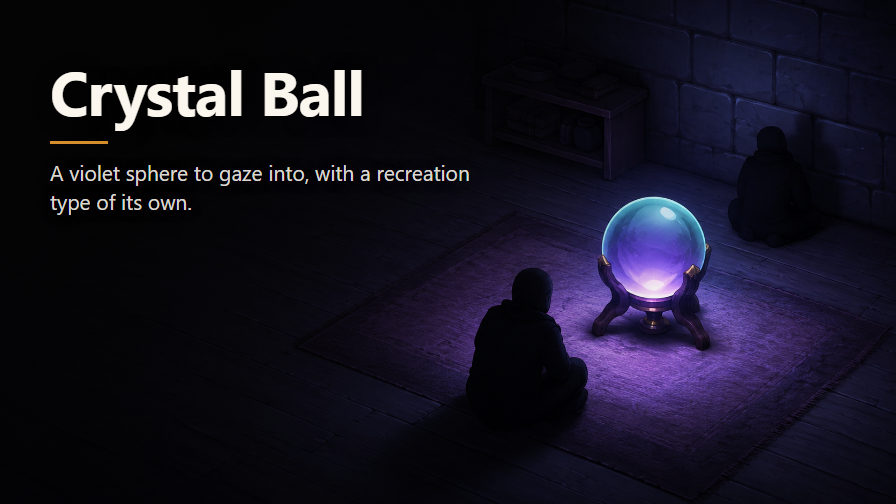
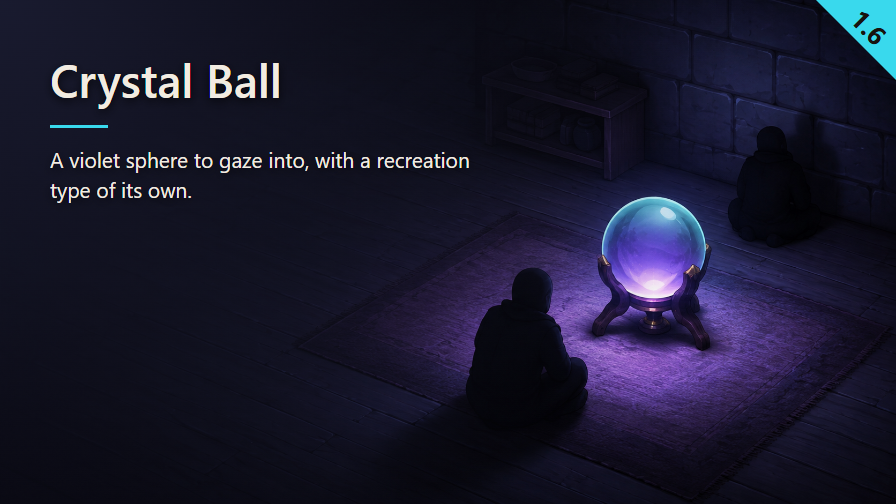
Refresh Crystal Ball preview and document repository validation

Changed region(s): [[0.0, 0.0, 0.5312, 0.6845], [0.9062, 0.0, 1.0, 0.1488]]

diff --git a/Art/Preview.html b/Art/Preview.html
@@ -1,0 +1,33 @@
+<!doctype html>
+<html><head><meta charset="utf-8"><title>Crystal Ball — Preview composition</title>
+<style>
+*{box-sizing:border-box;margin:0;padding:0}
+html,body{width:896px;height:504px;overflow:hidden;font-family:"Segoe UI",system-ui,sans-serif}
+.scene,.veil{position:absolute;inset:0}
+.scene{background:url('Preview.png') center/cover no-repeat}
+.veil{background:radial-gradient(circle at 0% 0%,rgb(var(--veil-rgb)/.86) 0%,rgb(var(--veil-rgb)/0) 74%)}
+.plate{position:absolute;left:50px;top:54px;color:var(--inkPrimary);text-shadow:0 3px 10px rgba(0,0,0,.75)}
+h1{font-size:46px;font-weight:600;line-height:1.1;letter-spacing:0}
+.tag{font-size:24px;font-weight:400;line-height:1.1;letter-spacing:.2px;margin-top:8px;color:var(--inkSecondary)}
+.rule{width:58px;height:3px;background:var(--accent);margin-top:20px;margin-bottom:16px}
+.summary{width:430px;font-size:21px;font-weight:400;line-height:1.45;letter-spacing:0}
+.badge{position:absolute;right:0;top:0;width:80px;height:80px;background:var(--accent);clip-path:polygon(0 0,100% 0,100% 100%)}
+.version{position:absolute;left:869px;top:27px;transform:translate(-50%,-50%) rotate(45deg);font-size:26px;font-weight:700;line-height:1;color:var(--badgeInk)}
+</style></head><body>
+<div class="scene"></div><div class="veil"></div>
+<div class="plate"><h1>Crystal Ball</h1><div class="rule"></div><p class="summary">A violet sphere to gaze into, with a recreation type of its own.</p></div>
+<div class="badge"></div><span class="version"></span>
+<script>
+window.ready=(async()=>{
+ const palette=await (await fetch('preview-palette.json')).json();
+ for(const [key,value] of Object.entries(palette))document.documentElement.style.setProperty('--'+key,value);
+ document.documentElement.style.setProperty('--veil-rgb',palette.veil.match(/[a-f\d]{2}/gi).map(v=>parseInt(v,16)).join(' '));
+ const xml=new DOMParser().parseFromString(await(await fetch('../Mod/About/About.xml')).text(),'text/xml');
+ const versions=[...xml.querySelectorAll('supportedVersions li')].map(n=>n.textContent.trim()).filter(v=>/^\d+\.\d+(\.\d+)?$/.test(v));
+ versions.sort((a,b)=>{const aa=a.split('.').map(Number),bb=b.split('.').map(Number);for(let i=0;i<Math.max(aa.length,bb.length);i++){if((aa[i]||0)!==(bb[i]||0))return (aa[i]||0)-(bb[i]||0)}return 0});
+ if(!versions.length)throw Error('No stable supported version');
+ document.querySelector('.version').textContent=versions.at(-1);
+ await document.fonts.ready;
+ await new Promise((resolve,reject)=>{const img=new Image();img.onload=resolve;img.onerror=reject;img.src='Preview.png'});
+})();
+</script></body></html>

diff --git a/_tools/preview/Preview.html b/_tools/preview/Preview.html
@@ -1,66 +1,5 @@
 <!doctype html>
 <meta charset="utf-8">
-<title>Crystal Ball — showcase</title>
-<!--
-  Engraves the mod name and its summary line onto the showcase, to the repository
-  standard in STYLE_RIMWORLD.md: 896x504, title over the calm upper-left third,
-  58x3 amber rule, 21 px summary on 430 px.
-
-  Rendered by Chrome headless at the final size, so the glyphs are never
-  resampled. The background is Art/Preview-source.png, the full-resolution
-  render, never the reduced Preview.png.
-
-    chrome --headless --no-sandbox --disable-gpu --hide-scrollbars \
-      --window-size=896,504 --force-device-scale-factor=1 \
-      --screenshot=../../Mod/About/Preview.png Preview.html
-
-  Geometry measured off the first engraving so a re-render lands on the same
-  pixels: rule at (50,141), cap-top of the title at y=70, summary from y=165
-  with a 29 px leading.
--->
-<style>
-  html, body { margin: 0; padding: 0; }
-  body { width: 896px; height: 504px; position: relative; overflow: hidden; }
-
-  .scene {
-    position: absolute; inset: 0;
-    background: url('../../Art/Preview-source.png') center / cover no-repeat;
-  }
-
-  /* Darkens the upper-left third so the text reads, and leaves the ball alone. */
-  .veil {
-    position: absolute; inset: 0;
-    background: radial-gradient(circle at top left,
-                rgba(6, 5, 4, .86) 0%, rgba(6, 5, 4, 0) 74%);
-  }
-
-  .plate {
-    position: absolute; left: 50px; top: 60px;
-    font-family: "Segoe UI", system-ui, -apple-system, sans-serif;
-  }
-
-  .name {
-    margin: 0; font-size: 62px; font-weight: 700; line-height: 1;
-    color: #FBF7EF; letter-spacing: -1.1px;
-    text-shadow: 0 2px 18px rgba(0, 0, 0, .55);
-  }
-
-  .rule {
-    width: 58px; height: 3px; margin: 19px 0 0; background: #D68F2C;
-  }
-
-  .line {
-    margin: 14px 0 0; width: 430px;
-    font-size: 21px; line-height: 29px; font-weight: 400;
-    color: rgba(251, 247, 239, .88);
-    text-shadow: 0 1px 12px rgba(0, 0, 0, .6);
-  }
-</style>
-
-<div class="scene"></div>
-<div class="veil"></div>
-<div class="plate">
-  <p class="name">Crystal Ball</p>
-  <div class="rule"></div>
-  <p class="line">A violet sphere to gaze into, with a recreation type of its own.</p>
-</div>
+<title>Crystal Ball — Preview composition moved</title>
+<meta http-equiv="refresh" content="0;url=../../Art/Preview.html">
+<a href="../../Art/Preview.html">Composition maintained in Art/Preview.html (serve the repository over HTTP).</a>

diff --git a/STATUS.md b/STATUS.md
@@ -2,67 +2,113 @@
 mod:          Crystal Ball
 packageId:    nelim.crystalball
 repo:         Rimworld-Crystal-Ball
+remote:       https://github.com/vbardales/Rimworld-Crystal-Ball.git
+local_path:   C:\Users\nelim\Documents\rimworld\CrystalBall
 visibility:   public
 detached:     yes
 stage:        done
 licence:      original
-licence_at:   an original creation, MIT
+licence_at:   MIT; original mod according to repository provenance
+license_spdx: MIT
 dependencies: none
 showcase:     complete
 tested_on:
 workshop:
 remaining:
-  - unverified: the fifteen scenarios of TESTING.md, none played
-  - unverified: does a colonist use the ball in a room with no chair at all (scenario 5)
-  - unverified: does the vanilla alert for chairless recreation buildings name the ball (scenario 6)
-  - unverified: never uploaded to the Workshop, so the showcase has never been seen in place
-session:      local_f3be24f6-fe14-4195-bd8c-b3dc8946784c
-updated:      2026-09-12, the mod's own session
+  - unverified: the fifteen manual scenarios in TESTING.md have no recorded in-game pass
+  - unverified: chairless use and the vanilla chair alert (scenarios 5 and 6)
+  - unverified: Workshop publication and in-place showcase review
+session:      01a09736-2cfc-72d3-8b3c-4ffe79ef572c
+updated:      2026-09-12
 ---
 
 # Crystal Ball — status
 
-Status card, read by a pass over every mod rather than by asking each thread one at a time. It
-lives at the root, never inside `Mod/`, so Steam never receives it.
+This file is maintained by the Codex task responsible for this repository. Update it after
+changes, test runs and release decisions. It stays outside `Mod/` and is not shipped to Steam.
 
-The fields above were read off the disk on 2026-09-12. The ones the pass could not read were
-filled the same day:
+## Repository identity
 
-- **`stage`** — `done`, confirmed. Released as 1.0.0 on 2026-09-04, public, a repository of its
-  own since 2026-09-11, covered by thirty-five offline tests that pass. What is left is not
-  development.
-- **`licence`** — `original`, where the pass had left a question mark for want of an
-  `ATTRIBUTION.md`. There is none because there is nothing to attribute: four defs, a texture
-  drawn for it, MIT. The behaviour is Core's chess table, which is a use of the game rather than a
-  borrowing from a mod.
-- **`dependencies`** — `none`. No DLC, no framework, no assembly. The About declares one
-  `loadAfter`, on `Ludeon.RimWorld`, which is vanilla and nothing to declare.
-- **`tested_on`** — left empty, and that is exact: nobody has ever seen this ball run. No colony
-  has loaded it, and the packageId is in no `ModsConfig.xml`. The junction into `RimWorld/Mods` is
-  in place, though.
-- **`workshop`** — empty, and exact too: no `PublishedFileId.txt` in `Mod/`, so nothing has ever
-  been uploaded. The showcase is ready for it all the same, preview image included.
-- **`remaining`** — the catch-all line the sweep leaves there is replaced by four. The middle two
-  are the mod's only real unknowns. Scenario 5 is the setting that fails silently: `requireChair`
-  has exactly one reader in the whole game, and when it does not bite, the symptom is a colonist
-  who simply never comes. Scenario 6 is the opposite risk, an alert that could name a building
-  needing no chair at all — it inspects one joy giver's buildings and looks for something sittable
-  in the four cardinal cells, and whether the ball falls within its reach takes a running colony to
-  settle.
+Verified on 2026-09-12: the Git root is `C:\Users\nelim\Documents\rimworld\CrystalBall`,
+with its own `.git` directory and no Git superproject. This task manages this single local
+repository, no longer the former monorepo. Origin fetch and push both point to the remote above.
+GitHub reports `PUBLIC` through `gh repo view --json name,visibility,url`.
 
-So the first run in a colony will empty most of that list at once.
+The mod title is **Crystal Ball**, author **nelim**, packageId **nelim.crystalball**.
+No continuation or fork suffix is justified by the provenance documented here: this is presented
+as an original mod, not a maintained copy of someone else's mod. Keep the title unchanged.
+The GitHub link is present in both `About.xml`'s `url` and, after this audit, its description.
 
-The `remaining` categories: `feature` for something missing from the first pass, `defect` for a
-known fault left unfixed, `unverified` for what could not be checked.
+## Licence and justification
 
-The `session` field was not touched: it comes from the sweep.
+The actual licence is **MIT**, copyright (c) 2026 nelim. `LICENSE` and `Mod/LICENSE` carry
+that licence. `licence: original` is the status catalogue's provenance category, not a licence name.
 
-The `licence` vocabulary: `open` an explicit licence, `silent` no licence and a dead source,
-`alive` no licence but a living source, `forbidden` a written refusal, `original` owing nothing
-to anyone — not a name, not an idea traceable to one mod, not a value derived from its assets.
+The repository credits original defs and vector texture made with Claude Code and a preview made
+with DALL-E under human direction. Its behaviour references vanilla RimWorld classes; it ships
+no game assembly or third-party mod code. That documented provenance supports keeping the
+existing MIT licence: it allows reuse and continuations while retaining the copyright and licence
+notice. This audit confirms the files and credits, not an independent history of every asset.
+No additional attribution file or third-party licence is present.
 
-The `dependencies` vocabulary: `declared` when every mod this one needs is named in the About's
-`modDependencies`, `to check` when a non-vanilla `loadAfter` suggests one that is not declared,
-`none` when the mod needs nothing. An undeclared dependency is not cosmetic: on 2026-09-11
-Reequilibrage animaux took 47 vanilla animals down with it, Muffalo included, because the class it
-injects belongs to a mod that was neither declared nor loaded.
+## Validation
+
+Two relevant offline suites live in this repository and use the installed RimWorld data and
+assembly, without relying on the former monorepo or launching a colony:
+
+- `_tools/Run-Tests.ps1`: 24/24 passing on 2026-09-12 after the description edit.
+  Covers metadata, images, all four defs, XML fields, class and def references, inheritance,
+  recreation settings and French translation keys and values.
+- `_tools/Run-Functional-Tests.ps1`: 11/11 passing on 2026-09-12.
+  Checks vanilla worker/driver construction, Building compatibility, setting readers,
+  recreation accounting and values against vanilla definitions. These are offline checks,
+  not played functional scenarios.
+
+Run with `powershell -NoProfile -ExecutionPolicy Bypass -File` followed by the script path.
+The relevant XML is covered by the first suite, including About parsing, defs and translations.
+There is no custom C# assembly requiring a separate mod-code unit-test suite.
+
+`TESTING.md` contains **15 manual functional scenarios**, with setup, steps and expected results:
+loading/building, appearance/glow, quality, autonomous recreation, chairless use, chair alerts,
+capacity, tolerance/variety, sight, room ownership, moving, pathing, room role, French and saves.
+They exist but have no recorded in-game execution result. Keep `tested_on` empty until an actual
+run records the game version, scenarios, outcomes and relevant log evidence. Prior notes about
+never having loaded the mod or Workshop publication are not fresh checks of external state.
+
+`stage: done` means implementation complete, not in-game validation complete.
+The remaining categories are `feature`, `defect` and `unverified`.
+
+## Preview overlay — 2026-09-12
+
+Recomposed according to `../STYLE_RIMWORLD.md`, preserving the existing title and summary.
+The existing text-free `Art/Preview-source.png` was visually inspected and copied unchanged to
+`Art/Preview.png`. No illustration replacement or generation; the original remains at its
+existing path. The delivered overlay is `Mod/About/Preview.png`.
+
+- Composition and layout parameters: `Art/Preview.html`; render and verification script:
+  `Art/render-preview.cjs` (Node.js with playwright, sharp and installed Chrome; run from any
+  directory with those packages resolvable). Serve the repository over HTTP for manual viewing.
+  The former `_tools/preview/Preview.html` now points to the maintained composition.
+- Colour reference: `Art/preview-palette.json`, loaded directly by the HTML. The vivid accent
+  comes from the cyan rim across the upper crystal ball, with saturation strengthened. This cyan-green accent separates clearly from the dominant blue-indigo atmosphere and secondary ink at both review sizes. The secondary ink uses
+  the blue-indigo family spread across the stone wall and wooden floor, lightened while
+  retaining its colour. The veil takes a dark, slightly desaturated shade of those surfaces.
+  No tag is displayed: the mod is public and original.
+- Typography verified through Chrome's platform-font API after `document.fonts.ready`:
+  Segoe UI Semibold for the 46 px / 600 title, Segoe UI regular for the 21 px summary,
+  Segoe UI Bold for the 26 px badge. No fallback. Title and summary use identical ink.
+- Badge version read from the delivered About.xml: highest declared stable version, 1.6.
+  Triangle and rotated text use the guide's coordinates. Dark-veil gradient and shadows
+  follow the guide; no shadow on badge digits.
+- Visual inspection passed at 896 x 504 and 268 px wide: title and version identifiable,
+  rule visible, no overlapping or clipped text; the summary remains intended for full size.
+- Contrast measured on `Art/preview-background.png`, rendered with text hidden. Minimum over
+  every pixel of the title/summary rectangles (stronger than just four corner samples):
+  title 14.71:1, summary 15.01:1; badge ink on opaque accent 10.91:1. All exceed 4.5:1.
+  Tag contrast is not applicable because no tag is present.
+- QA evidence: `Art/preview-qa.json` and `Art/Preview-268.png`. Final PNG: 498,300 bytes,
+  below 900 KB. Nothing published.
+
+The revised title hierarchy was checked: both words in Crystal Ball are essential title words,
+so both retain 46 px / 600 in primary ink. There are no prefixes, suffixes or linking words
+to reduce, and no status tag. Illustration, exact title and summary remain unchanged.
